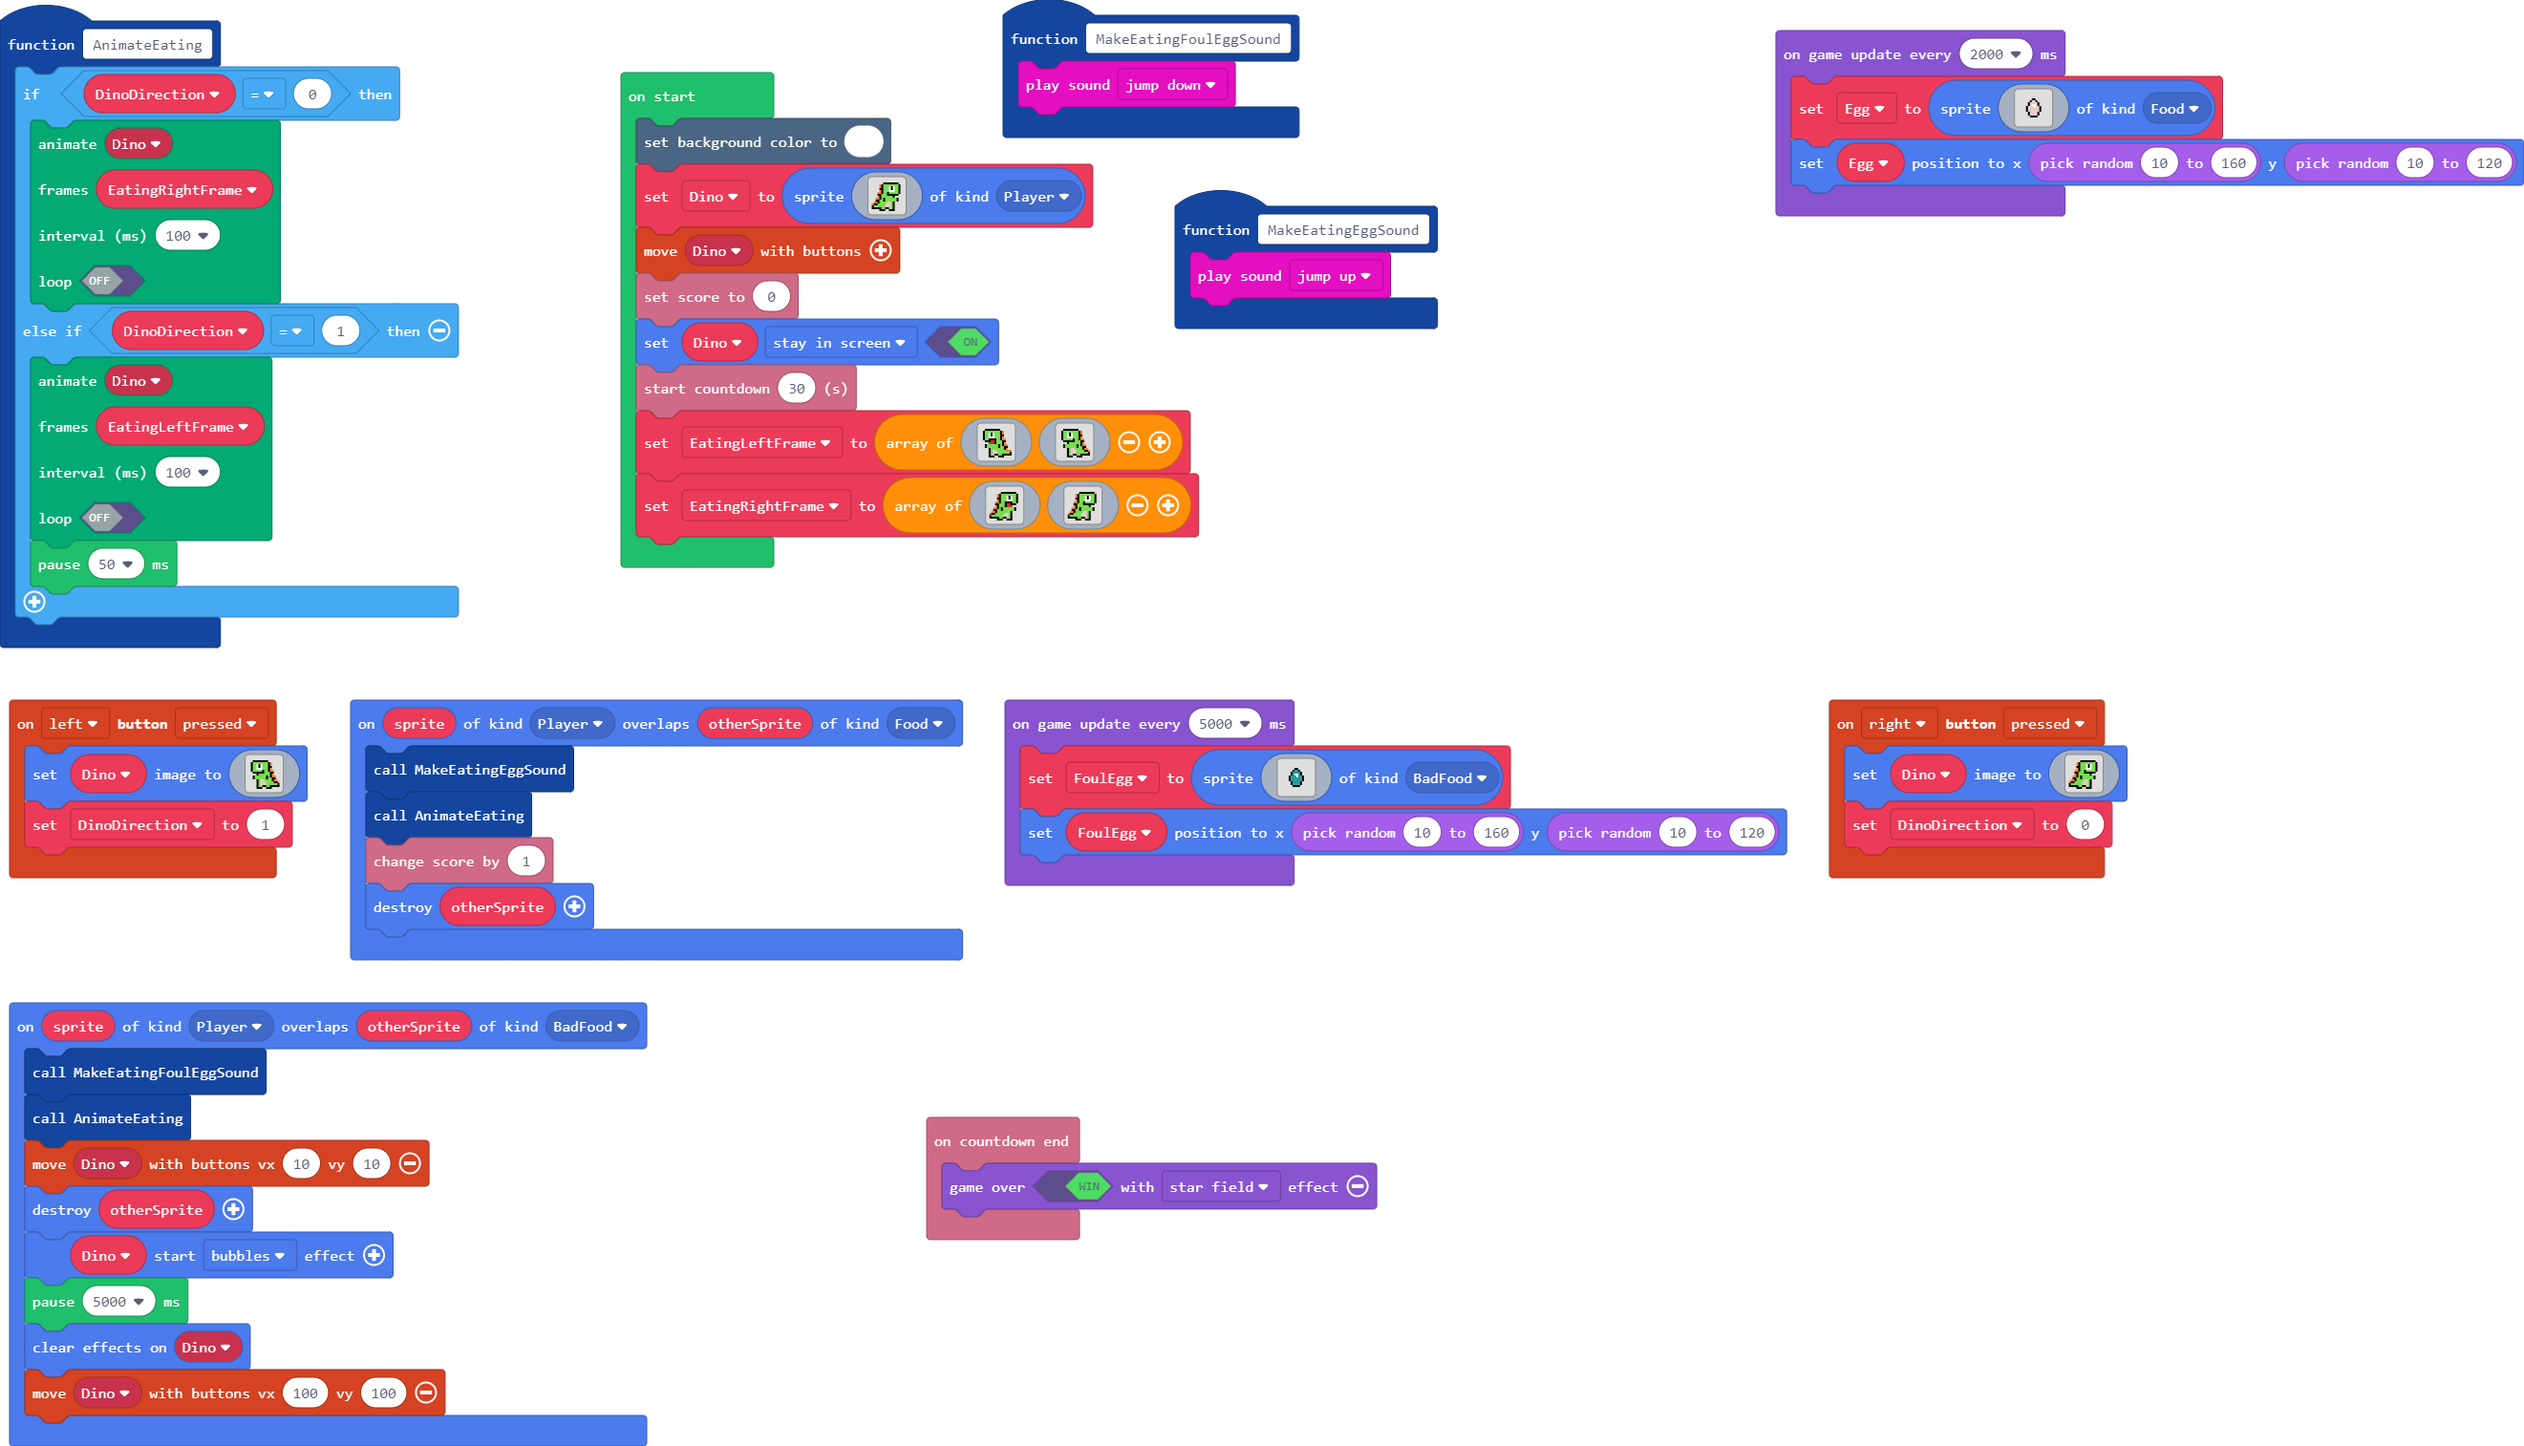
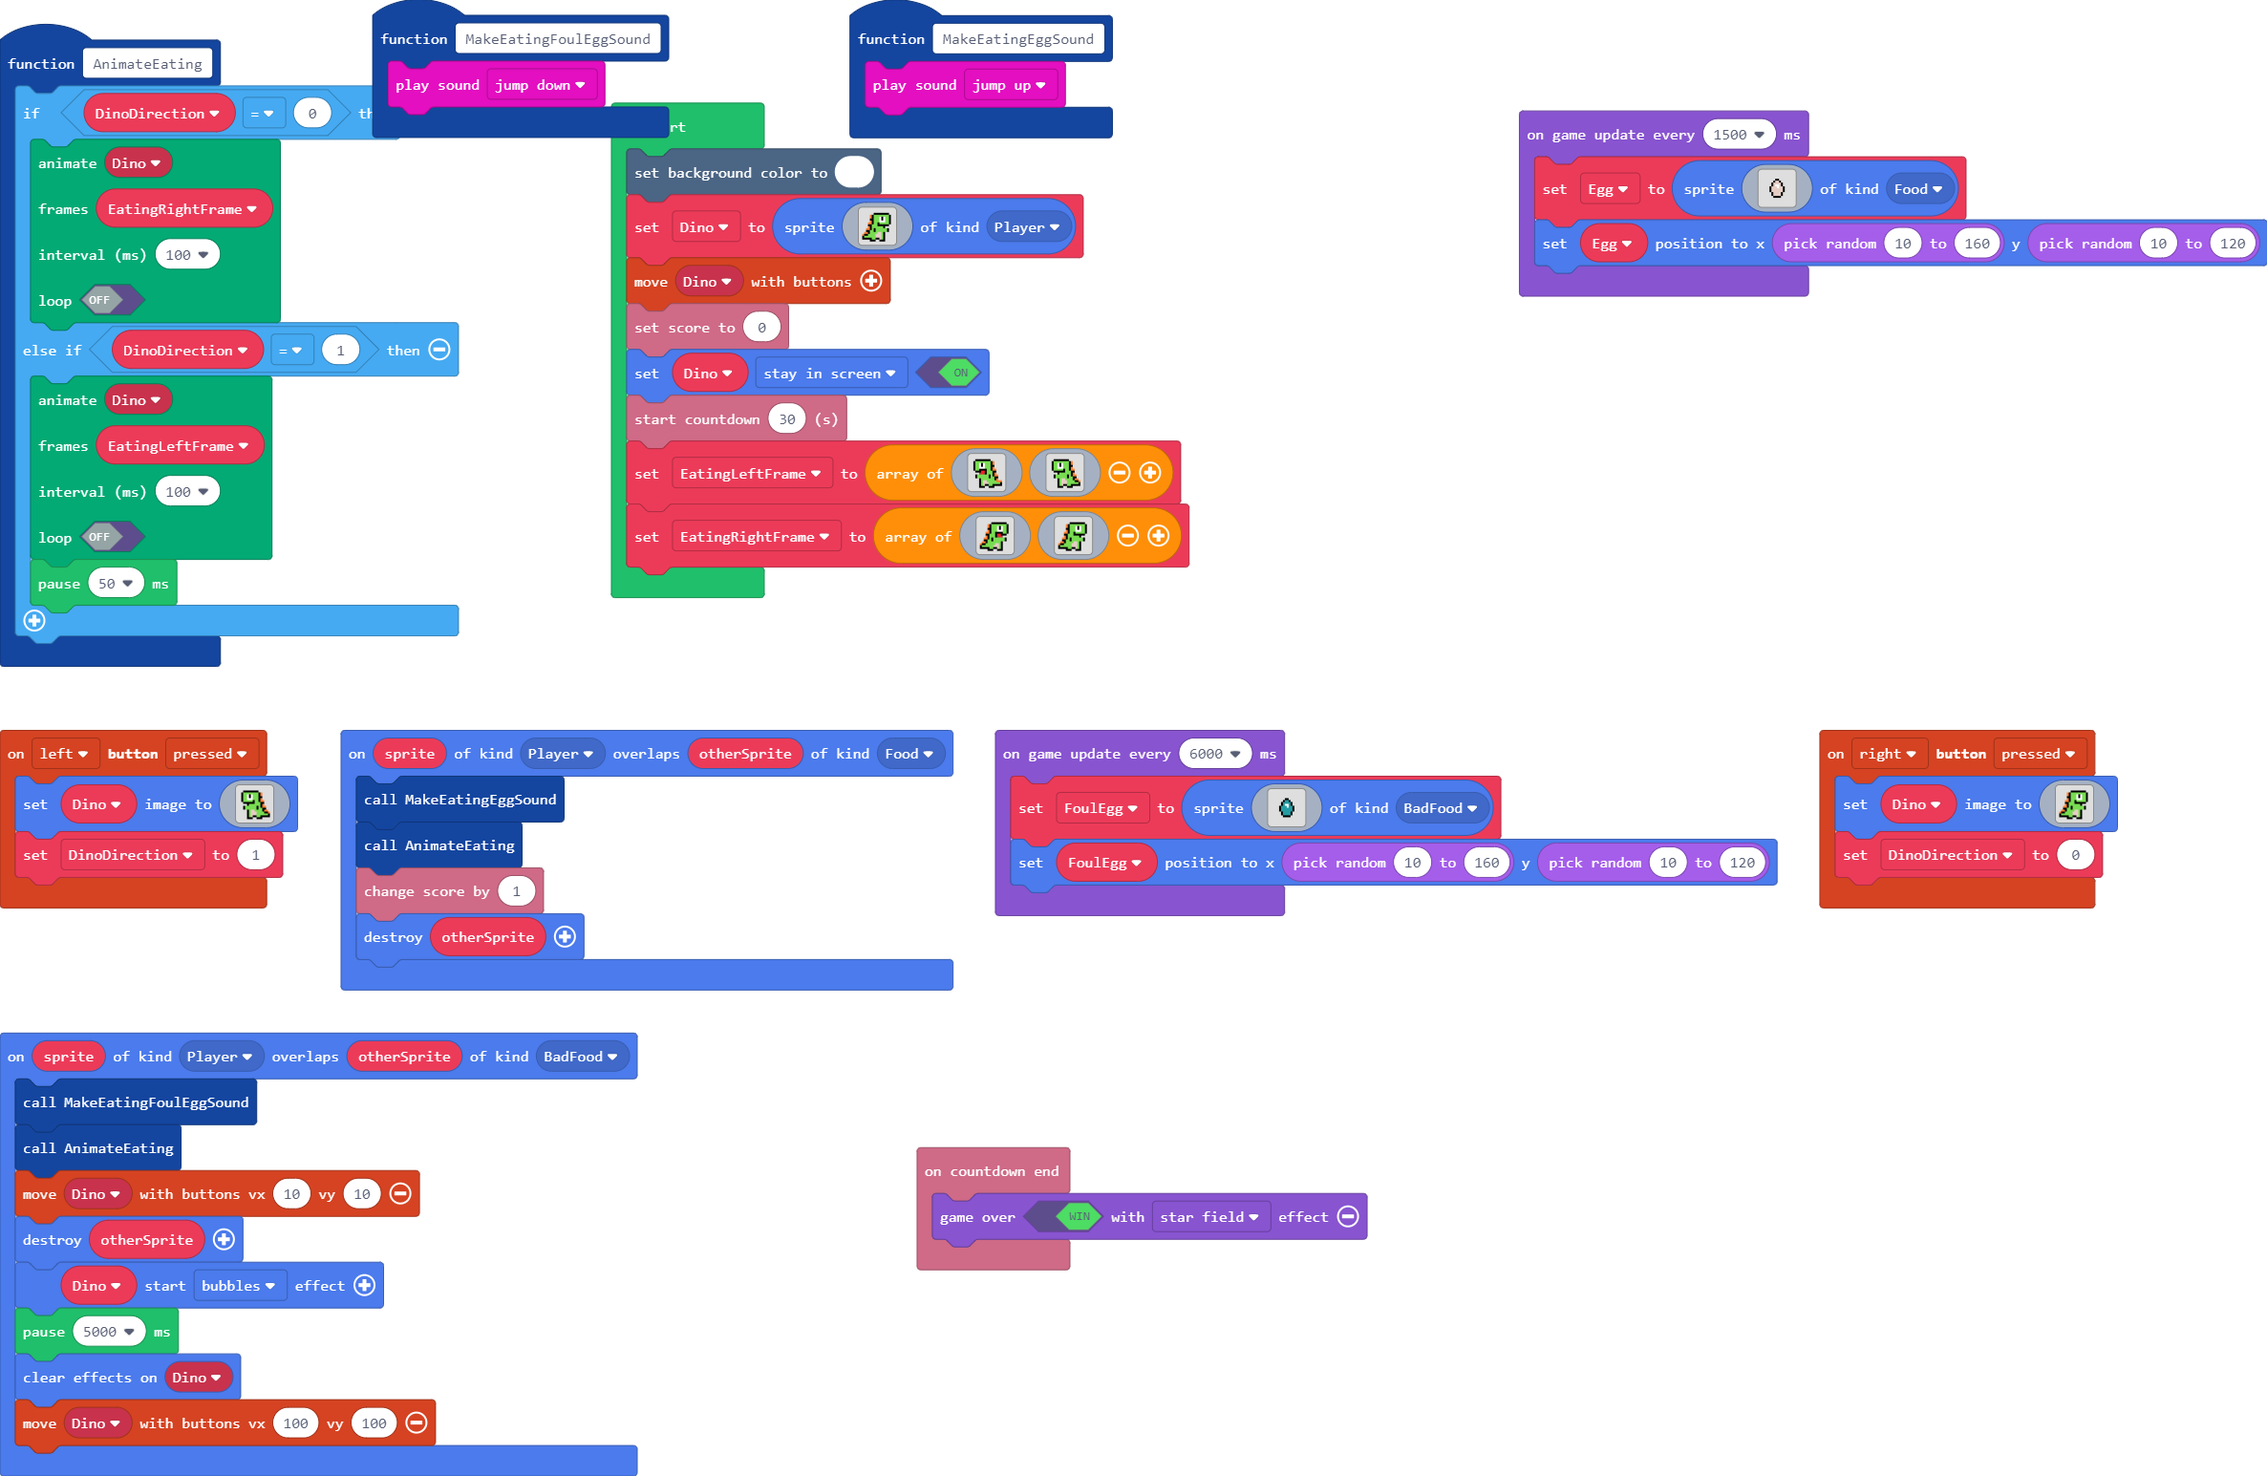
Update pxt.json, main.blocks, main.ts

diff --git a/main.ts b/main.ts
@@ -10,23 +10,23 @@ namespace SpriteKind {
 }
 controller.left.onEvent(ControllerButtonEvent.Pressed, function () {
     Dino.setImage(img`
-. . . . . . . . . . . . . . . . 
-. . f f f f f f f f . . . . . . 
-. f 7 7 7 7 7 7 7 7 f 4 . . . . 
-. f 7 7 1 f 1 7 7 7 f 4 . . . . 
-. f 7 7 1 f 1 7 7 7 f f . . . . 
-. f 7 7 1 1 1 7 7 7 f 4 . . . . 
-. f 7 7 7 7 7 f 7 7 f 4 4 . . . 
-. . f f f f f f 7 7 7 f f . . . 
-. . . . f 7 7 7 7 7 7 f 4 . . . 
-. . f 7 7 7 7 7 7 f 7 f 4 4 . . 
-. . f 7 7 7 7 7 7 f 7 7 f f . . 
-. . . . f 7 d d 7 7 7 7 f 4 4 . 
-. . . . f 7 d d d 7 7 7 7 f f 4 
-. . . . f 7 d d d 7 7 7 7 7 7 f 
-. . . . f 7 d f f 7 7 f f f f f 
-. . . . f f f . . f f f . . . . 
-`)
+        . . . . . . . . . . . . . . . .
+        . . f f f f f f f f . . . . . .
+        . f 7 7 7 7 7 7 7 7 f 4 . . . .
+        . f 7 7 1 f 1 7 7 7 f 4 . . . .
+        . f 7 7 1 f 1 7 7 7 f f . . . .
+        . f 7 7 1 1 1 7 7 7 f 4 . . . .
+        . f 7 7 7 7 7 f 7 7 f 4 4 . . .
+        . . f f f f f f 7 7 7 f f . . .
+        . . . . f 7 7 7 7 7 7 f 4 . . .
+        . . f 7 7 7 7 7 7 f 7 f 4 4 . .
+        . . f 7 7 7 7 7 7 f 7 7 f f . .
+        . . . . f 7 d d 7 7 7 7 f 4 4 .
+        . . . . f 7 d d d 7 7 7 7 f f 4
+        . . . . f 7 d d d 7 7 7 7 7 7 f
+        . . . . f 7 d f f 7 7 f f f f f
+        . . . . f f f . . f f f . . . .
+    `)
     DinoDirection = 1
 })
 function AnimateEating () {
@@ -58,23 +58,23 @@ function MakeEatingEggSound () {
 }
 controller.right.onEvent(ControllerButtonEvent.Pressed, function () {
     Dino.setImage(img`
-. . . . . . . . . . . . . . . . 
-. . . . . . f f f f f f f f . . 
-. . . . 4 f 7 7 7 7 7 7 7 7 f . 
-. . . . 4 f 7 7 7 1 f 1 7 7 f . 
-. . . . f f 7 7 7 1 f 1 7 7 f . 
-. . . . 4 f 7 7 7 1 1 1 7 7 f . 
-. . . 4 4 f 7 7 f 7 7 7 7 7 f . 
-. . . f f 7 7 7 f f f f f f . . 
-. . . 4 f 7 7 7 7 7 7 f . . . . 
-. . 4 4 f 7 f 7 7 7 7 7 7 f . . 
-. . f f 7 7 f 7 7 7 7 7 7 f . . 
-. 4 4 f 7 7 7 7 d d 7 f . . . . 
-4 f f 7 7 7 7 d d d 7 f . . . . 
-f 7 7 7 7 7 7 d d d 7 f . . . . 
-f f f f f 7 7 f f d 7 f . . . . 
-. . . . f f f . . f f f . . . . 
-`)
+        . . . . . . . . . . . . . . . .
+        . . . . . . f f f f f f f f . .
+        . . . . 4 f 7 7 7 7 7 7 7 7 f .
+        . . . . 4 f 7 7 7 1 f 1 7 7 f .
+        . . . . f f 7 7 7 1 f 1 7 7 f .
+        . . . . 4 f 7 7 7 1 1 1 7 7 f .
+        . . . 4 4 f 7 7 f 7 7 7 7 7 f .
+        . . . f f 7 7 7 f f f f f f . .
+        . . . 4 f 7 7 7 7 7 7 f . . . .
+        . . 4 4 f 7 f 7 7 7 7 7 7 f . .
+        . . f f 7 7 f 7 7 7 7 7 7 f . .
+        . 4 4 f 7 7 7 7 d d 7 f . . . .
+        4 f f 7 7 7 7 d d d 7 f . . . .
+        f 7 7 7 7 7 7 d d d 7 f . . . .
+        f f f f f 7 7 f f d 7 f . . . .
+        . . . . f f f . . f f f . . . .
+    `)
     DinoDirection = 0
 })
 info.onCountdownEnd(function () {
@@ -101,136 +101,136 @@ let EatingLeftFrame: Image[] = []
 let Dino: Sprite = null
 scene.setBackgroundColor(1)
 Dino = sprites.create(img`
-. . . . . . . . . . . . . . . . 
-. . . . . . f f f f f f f f . . 
-. . . . 4 f 7 7 7 7 7 7 7 7 f . 
-. . . . 4 f 7 7 7 1 f 1 7 7 f . 
-. . . . f f 7 7 7 1 f 1 7 7 f . 
-. . . . 4 f 7 7 7 1 1 1 7 7 f . 
-. . . 4 4 f 7 7 f 7 7 7 7 7 f . 
-. . . f f 7 7 7 f f f f f f . . 
-. . . 4 f 7 7 7 7 7 7 f . . . . 
-. . 4 4 f 7 f 7 7 7 7 7 7 f . . 
-. . f f 7 7 f 7 7 7 7 7 7 f . . 
-. 4 4 f 7 7 7 7 d d 7 f . . . . 
-4 f f 7 7 7 7 d d d 7 f . . . . 
-f 7 7 7 7 7 7 d d d 7 f . . . . 
-f f f f f 7 7 f f d 7 f . . . . 
-. . . . f f f . . f f f . . . . 
+    . . . . . . . . . . . . . . . .
+    . . . . . . f f f f f f f f . .
+    . . . . 4 f 7 7 7 7 7 7 7 7 f .
+    . . . . 4 f 7 7 7 1 f 1 7 7 f .
+    . . . . f f 7 7 7 1 f 1 7 7 f .
+    . . . . 4 f 7 7 7 1 1 1 7 7 f .
+    . . . 4 4 f 7 7 f 7 7 7 7 7 f .
+    . . . f f 7 7 7 f f f f f f . .
+    . . . 4 f 7 7 7 7 7 7 f . . . .
+    . . 4 4 f 7 f 7 7 7 7 7 7 f . .
+    . . f f 7 7 f 7 7 7 7 7 7 f . .
+    . 4 4 f 7 7 7 7 d d 7 f . . . .
+    4 f f 7 7 7 7 d d d 7 f . . . .
+    f 7 7 7 7 7 7 d d d 7 f . . . .
+    f f f f f 7 7 f f d 7 f . . . .
+    . . . . f f f . . f f f . . . .
 `, SpriteKind.Player)
 controller.moveSprite(Dino)
 info.setScore(0)
 Dino.setFlag(SpriteFlag.StayInScreen, true)
 info.startCountdown(30)
 EatingLeftFrame = [img`
-. . . . . . . . . . . . . . . . 
-. . f f f f f f f f . . . . . . 
-. f 7 7 7 7 7 7 7 7 f 4 . . . . 
-. f 7 7 1 f 1 7 7 7 f 4 . . . . 
-. f 7 7 1 f 1 7 7 7 f f . . . . 
-. f 7 7 1 1 1 7 7 7 f 4 . . . . 
-. f 7 7 f f f f 7 7 f 4 4 . . . 
-. . f f f 2 2 f 7 7 7 f f . . . 
-. . . . e 2 e f 7 7 7 f 4 . . . 
-. . f 7 7 7 7 7 7 f 7 f 4 4 . . 
-. . f 7 7 7 7 7 7 f 7 7 f f . . 
-. . . . f 7 7 7 7 7 7 7 f 4 . . 
-. . . . f 7 d d 7 7 7 7 7 4 4 4 
-. . . . f 7 d d d 7 7 7 7 7 7 f 
-. . . . f 7 d f f 7 7 f f f f f 
-. . . . f f f . . f f f . . . . 
+    . . . . . . . . . . . . . . . .
+    . . f f f f f f f f . . . . . .
+    . f 7 7 7 7 7 7 7 7 f 4 . . . .
+    . f 7 7 1 f 1 7 7 7 f 4 . . . .
+    . f 7 7 1 f 1 7 7 7 f f . . . .
+    . f 7 7 1 1 1 7 7 7 f 4 . . . .
+    . f 7 7 f f f f 7 7 f 4 4 . . .
+    . . f f f 2 2 f 7 7 7 f f . . .
+    . . . . e 2 e f 7 7 7 f 4 . . .
+    . . f 7 7 7 7 7 7 f 7 f 4 4 . .
+    . . f 7 7 7 7 7 7 f 7 7 f f . .
+    . . . . f 7 7 7 7 7 7 7 f 4 . .
+    . . . . f 7 d d 7 7 7 7 7 4 4 4
+    . . . . f 7 d d d 7 7 7 7 7 7 f
+    . . . . f 7 d f f 7 7 f f f f f
+    . . . . f f f . . f f f . . . .
 `, img`
-. . . . . . . . . . . . . . . . 
-. . f f f f f f f f . . . . . . 
-. f 7 7 7 7 7 7 7 7 f 4 . . . . 
-. f 7 7 1 f 1 7 7 7 f 4 . . . . 
-. f 7 7 1 f 1 7 7 7 f f . . . . 
-. f 7 7 1 1 1 7 7 7 f 4 . . . . 
-. f 7 7 7 7 7 f 7 7 f 4 4 . . . 
-. . f f f f f f 7 7 7 f f . . . 
-. . . . f 7 7 7 7 7 7 f 4 . . . 
-. . f 7 7 7 7 7 7 f 7 f 4 4 . . 
-. . f 7 7 7 7 7 7 f 7 7 f f . . 
-. . . . f 7 d d 7 7 7 7 f 4 4 . 
-. . . . f 7 d d d 7 7 7 7 f f 4 
-. . . . f 7 d d d 7 7 7 7 7 7 f 
-. . . . f 7 d f f 7 7 f f f f f 
-. . . . f f f . . f f f . . . . 
+    . . . . . . . . . . . . . . . .
+    . . f f f f f f f f . . . . . .
+    . f 7 7 7 7 7 7 7 7 f 4 . . . .
+    . f 7 7 1 f 1 7 7 7 f 4 . . . .
+    . f 7 7 1 f 1 7 7 7 f f . . . .
+    . f 7 7 1 1 1 7 7 7 f 4 . . . .
+    . f 7 7 7 7 7 f 7 7 f 4 4 . . .
+    . . f f f f f f 7 7 7 f f . . .
+    . . . . f 7 7 7 7 7 7 f 4 . . .
+    . . f 7 7 7 7 7 7 f 7 f 4 4 . .
+    . . f 7 7 7 7 7 7 f 7 7 f f . .
+    . . . . f 7 d d 7 7 7 7 f 4 4 .
+    . . . . f 7 d d d 7 7 7 7 f f 4
+    . . . . f 7 d d d 7 7 7 7 7 7 f
+    . . . . f 7 d f f 7 7 f f f f f
+    . . . . f f f . . f f f . . . .
 `]
 EatingRightFrame = [img`
-. . . . . . . . . . . . . . . . 
-. . . . . . f f f f f f f f . . 
-. . . . 4 f 7 7 7 7 7 7 7 7 f . 
-. . . . 4 f 7 7 7 1 f 1 7 7 f . 
-. . . . f f 7 7 7 1 f 1 7 7 f . 
-. . . . 4 f 7 7 7 1 1 1 7 7 f . 
-. . . 4 4 f 7 7 f f f f 7 7 f . 
-. . . f f 7 7 7 f 2 2 f f f . . 
-. . . 4 f 7 7 7 f e 2 e . . . . 
-. . 4 4 f 7 f 7 7 7 7 7 7 f . . 
-. . f f 7 7 f 7 7 7 7 7 7 f . . 
-. 4 4 f 7 7 7 7 7 7 7 f . . . . 
-4 f f 7 7 7 7 7 d d 7 f . . . . 
-f 7 7 7 7 7 7 d d d 7 f . . . . 
-f f f f f 7 7 f f d 7 f . . . . 
-. . . . f f f . . f f f . . . . 
+    . . . . . . . . . . . . . . . .
+    . . . . . . f f f f f f f f . .
+    . . . . 4 f 7 7 7 7 7 7 7 7 f .
+    . . . . 4 f 7 7 7 1 f 1 7 7 f .
+    . . . . f f 7 7 7 1 f 1 7 7 f .
+    . . . . 4 f 7 7 7 1 1 1 7 7 f .
+    . . . 4 4 f 7 7 f f f f 7 7 f .
+    . . . f f 7 7 7 f 2 2 f f f . .
+    . . . 4 f 7 7 7 f e 2 e . . . .
+    . . 4 4 f 7 f 7 7 7 7 7 7 f . .
+    . . f f 7 7 f 7 7 7 7 7 7 f . .
+    . 4 4 f 7 7 7 7 7 7 7 f . . . .
+    4 f f 7 7 7 7 7 d d 7 f . . . .
+    f 7 7 7 7 7 7 d d d 7 f . . . .
+    f f f f f 7 7 f f d 7 f . . . .
+    . . . . f f f . . f f f . . . .
 `, img`
-. . . . . . . . . . . . . . . . 
-. . . . . . f f f f f f f f . . 
-. . . . 4 f 7 7 7 7 7 7 7 7 f . 
-. . . . 4 f 7 7 7 1 f 1 7 7 f . 
-. . . . f f 7 7 7 1 f 1 7 7 f . 
-. . . . 4 f 7 7 7 1 1 1 7 7 f . 
-. . . 4 4 f 7 7 f 7 7 7 7 7 f . 
-. . . f f 7 7 7 f f f f f f . . 
-. . . 4 f 7 7 7 7 7 7 f . . . . 
-. . 4 4 f 7 f 7 7 7 7 7 7 f . . 
-. . f f 7 7 f 7 7 7 7 7 7 f . . 
-. 4 4 f 7 7 7 7 d d 7 f . . . . 
-4 f f 7 7 7 7 d d d 7 f . . . . 
-f 7 7 7 7 7 7 d d d 7 f . . . . 
-f f f f f 7 7 f f d 7 f . . . . 
-. . . . f f f . . f f f . . . . 
+    . . . . . . . . . . . . . . . .
+    . . . . . . f f f f f f f f . .
+    . . . . 4 f 7 7 7 7 7 7 7 7 f .
+    . . . . 4 f 7 7 7 1 f 1 7 7 f .
+    . . . . f f 7 7 7 1 f 1 7 7 f .
+    . . . . 4 f 7 7 7 1 1 1 7 7 f .
+    . . . 4 4 f 7 7 f 7 7 7 7 7 f .
+    . . . f f 7 7 7 f f f f f f . .
+    . . . 4 f 7 7 7 7 7 7 f . . . .
+    . . 4 4 f 7 f 7 7 7 7 7 7 f . .
+    . . f f 7 7 f 7 7 7 7 7 7 f . .
+    . 4 4 f 7 7 7 7 d d 7 f . . . .
+    4 f f 7 7 7 7 d d d 7 f . . . .
+    f 7 7 7 7 7 7 d d d 7 f . . . .
+    f f f f f 7 7 f f d 7 f . . . .
+    . . . . f f f . . f f f . . . .
 `]
-game.onUpdateInterval(2000, function () {
+game.onUpdateInterval(1500, function () {
     Egg = sprites.create(img`
-. . . . . . . . . . . . . . . . 
-. . . . . . . . . . . . . . . . 
-. . . . . . . . . . . . . . . . 
-. . . . . . . f f . . . . . . . 
-. . . . . . f d d f . . . . . . 
-. . . . . f d d d d f . . . . . 
-. . . . . f d 1 1 d f . . . . . 
-. . . . f d d d 1 d d f . . . . 
-. . . . f d d d d d d f . . . . 
-. . . . f d d d d d d f . . . . 
-. . . . . f d d d d f . . . . . 
-. . . . . f d d d d f . . . . . 
-. . . . . . f f f f . . . . . . 
-. . . . . . . . . . . . . . . . 
-. . . . . . . . . . . . . . . . 
-. . . . . . . . . . . . . . . . 
-`, SpriteKind.Food)
+        . . . . . . . . . . . . . . . .
+        . . . . . . . . . . . . . . . .
+        . . . . . . . . . . . . . . . .
+        . . . . . . . f f . . . . . . .
+        . . . . . . f d d f . . . . . .
+        . . . . . f d d d d f . . . . .
+        . . . . . f d 1 1 d f . . . . .
+        . . . . f d d d 1 d d f . . . .
+        . . . . f d d d d d d f . . . .
+        . . . . f d d d d d d f . . . .
+        . . . . . f d d d d f . . . . .
+        . . . . . f d d d d f . . . . .
+        . . . . . . f f f f . . . . . .
+        . . . . . . . . . . . . . . . .
+        . . . . . . . . . . . . . . . .
+        . . . . . . . . . . . . . . . .
+    `, SpriteKind.Food)
     Egg.setPosition(Math.randomRange(10, 160), Math.randomRange(10, 120))
 })
-game.onUpdateInterval(5000, function () {
+game.onUpdateInterval(6000, function () {
     FoulEgg = sprites.create(img`
-. . . . . . . . . . . . . . . . 
-. . . . . . . . . . . . . . . . 
-. . . . . . . . . . . . . . . . 
-. . . . . . . f f . . . . . . . 
-. . . . . . f 6 6 f . . . . . . 
-. . . . . f 6 6 6 6 f . . . . . 
-. . . . . f 6 1 1 6 f . . . . . 
-. . . . f 6 6 6 1 6 6 f . . . . 
-. . . . f 6 6 6 6 6 6 f . . . . 
-. . . . f 6 6 6 6 6 6 f . . . . 
-. . . . . f 6 6 6 6 f . . . . . 
-. . . . . f 6 6 6 6 f . . . . . 
-. . . . . . f f f f . . . . . . 
-. . . . . . . . . . . . . . . . 
-. . . . . . . . . . . . . . . . 
-. . . . . . . . . . . . . . . . 
-`, SpriteKind.BadFood)
+        . . . . . . . . . . . . . . . .
+        . . . . . . . . . . . . . . . .
+        . . . . . . . . . . . . . . . .
+        . . . . . . . f f . . . . . . .
+        . . . . . . f 6 6 f . . . . . .
+        . . . . . f 6 6 6 6 f . . . . .
+        . . . . . f 6 1 1 6 f . . . . .
+        . . . . f 6 6 6 1 6 6 f . . . .
+        . . . . f 6 6 6 6 6 6 f . . . .
+        . . . . f 6 6 6 6 6 6 f . . . .
+        . . . . . f 6 6 6 6 f . . . . .
+        . . . . . f 6 6 6 6 f . . . . .
+        . . . . . . f f f f . . . . . .
+        . . . . . . . . . . . . . . . .
+        . . . . . . . . . . . . . . . .
+        . . . . . . . . . . . . . . . .
+    `, SpriteKind.BadFood)
     FoulEgg.setPosition(Math.randomRange(10, 160), Math.randomRange(10, 120))
 })
